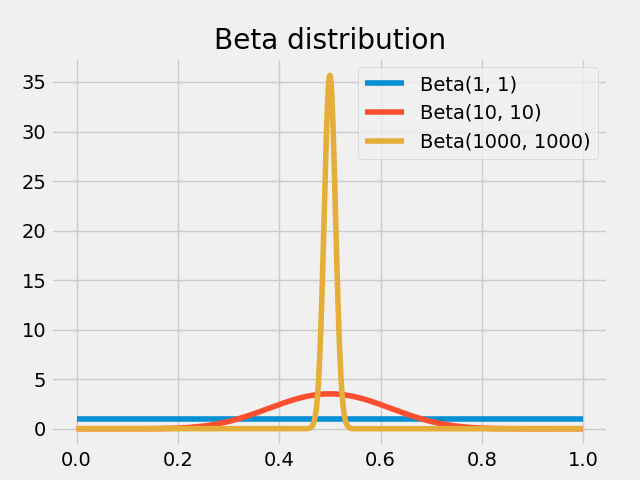
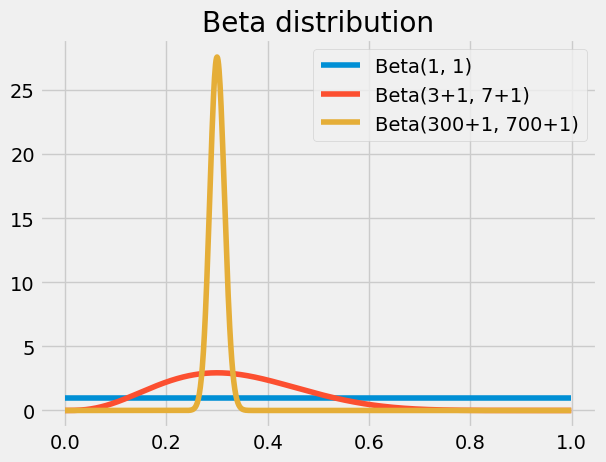
bayesian + storage, WIP

diff --git a/scripts/blog/bayesian-anomaly-detection.py b/scripts/blog/bayesian-anomaly-detection.py
@@ -20,7 +20,7 @@ plt.ylabel("error rate")
 plt.plot(x, err_rate)
 for day in [54, 34, 11, 61]:
     plt.axvline(day, alpha=0.1)
-plt.savefig("static/blog/bayesian-anomaly-detection/error-rate-timeseries.png")
+plt.savefig("static/blog/bayesian-anomaly-detection/error-rate-timeseries.png", bbox_inches='tight')
 
 
 for day in [54, 34, 11, 61]:
@@ -44,7 +44,7 @@ for day in [54, 34, 11, 61]:
         )
     )
     plt.legend()
-    plt.savefig(f"static/blog/bayesian-anomaly-detection/distributions-day{day}.png")
+    plt.savefig(f"static/blog/bayesian-anomaly-detection/distributions-day{day}.png", bbox_inches='tight')
 
 
 # Beta distribution
@@ -52,7 +52,7 @@ xrange = np.arange(0, 1., 0.001)
 plt.figure()
 plt.title("Beta distribution")
 plt.plot(xrange, beta.pdf(xrange, 1, 1), label="Beta(1, 1)")
-plt.plot(xrange, beta.pdf(xrange, 10, 10), label="Beta(10, 10)")
-plt.plot(xrange, beta.pdf(xrange, 1000, 1000), label="Beta(1000, 1000)")
+plt.plot(xrange, beta.pdf(xrange, 3+1, 7+1), label="Beta(3+1, 7+1)")
+plt.plot(xrange, beta.pdf(xrange, 300+1, 700+1), label="Beta(300+1, 700+1)")
 plt.legend()
-plt.savefig("static/blog/bayesian-anomaly-detection/beta-distribution.png")
+plt.savefig("static/blog/bayesian-anomaly-detection/beta-distribution.png", bbox_inches='tight')

diff --git a/content/blog/bayesian-anomaly-detection.md b/content/blog/bayesian-anomaly-detection.md
@@ -1,13 +1,50 @@
 ---
-title: "Bayesian Anomaly Detection"
+title: "Bayesian Anomaly Detection in Time Series Data"
 date: 2022-08-04T18:56:04+02:00
 draft: true
 ---
 {{< katex >}}
 
+{{< lead >}}
+Find anomalous data in time series using Bayesian statistics.
+{{< /lead >}}
+
+In a recent project, we were asked to detect anomalies in time series data. The special aspect was that the time series data resembled error rates, a quotient of the number of errors and a reference number, here the number of operations that were able to fail at that date. 
+
+![Error Rate Time Series](/blog/bayesian-anomaly-detection/error-rate-timeseries.png)
+
+We wanted to make use not only of the ratio but numbers that form it: Heuristically, you would be more confident about an error rate of 0.1 = 10,000 errors / 100,000 operations compared to the same but 0.1 = 1 error / 10 operations.
+
+In a Bayesian approach, we do not just compare error rates with each other. Instead, we want to derive probability distributions for both, the current date and a comparison interval and compare these.
 
 ## Bayes' theorem
 
+The Bayes' theorem helps us to derive the posterior distribution of the error rate based on our prior belief and the observed data.
+
+Let us consider the success of an operation to be _Bernoulli distributed_. This means an error occurs with a probability of \\(\theta\\). 
+
+Given a number of operations (reference) \\(N_r\\), the absolute number of errors will then follow a _Binomial distribution_:
+\\( P(N_e | N_r, \theta) = \binom{N_r}{N_e} \theta^{N_e} (1-\theta)^{N_r-N_e} \\).
+
+The Bayes' theorem now tells us how to derive the posterior probability, that means the probability distribution of the intrinsic error rate given our previous belief/knowledge and our observation of successful and failing operations:
+
+{{< alert " " >}}
 $$ P(\theta | N_e, N_r) \propto P(N_e | N_r, \theta) \times P(\theta) $$
+{{< /alert >}}
+
+But what is our prior probability? In doubt, we use an uninformed prior that gives equal weight to all values of \\(\theta\\) between 0 and 1 which can be modeled with a Beta function Beta(1, 1).
+
+The great thing in this setup is that the Beta distribution is the _conjugate prior_ of the Binomial distribution. What this means is that given a Binomial likelihood and a Beta prior, the posterior is again a Beta distribution. Moreover, we get a simple update rule that saves us a lot of computation.
+
+
+## Beta distribution
+
+Let us first have a look at the Beta distribution. The function is defined in the interval between 0 and 1 and parametrized by two positive shape parameters which are usually denoted \\(\alpha\\) and \\(\beta\\). 
+
+If both shape parameters have the value \\(\alpha = \beta = 1\\), the distribution is uniform between 0 and 1, resembling a so-called uninformed prior, meaning, all values between 0 and 1 are considered equally likely.
+
+Using the knowledge from above, we can now use the observed data to calculate the posterior distribution: The simple update rule is: \\(\alpha' = N_e + \alpha \\) and \\(\beta' = (N_r - N_e) +\beta \\). Heuristically, this means the parameters \\(\alpha\\) and \\(\beta\\) denote the number of positive (here errors) and negative (here reference minus errors) outcomes of the experiment (plus 1 for our uninformed prior).
+
+In the plot we can see that the distribution peaks around the expected error rate (errors / reference operations) and also that the peak is much narrower when we have more data.
 
 ![Beta Distribution](/blog/bayesian-anomaly-detection/beta-distribution.png)

diff --git a/content/blog/backup-azure-storage.md b/content/blog/backup-azure-storage.md
@@ -1,0 +1,16 @@
+---
+title: "Backup Azure Storage Accounts"
+date: 2022-08-02T19:04:32+02:00
+draft: true
+---
+
+While regular backups of data came a bit out of fashion in the modern cloud world, there might be situations where you have to generate a copy of your data from a storage account. In my case, the customer required me to enable infrastructure-encryption of storage accounts which forces a resource recreation. So the question was how to backup the data before and then migrate it back to the new resources.
+
+The solution is a bit hacky but works quite well: Create a temporary backup storage account, copy your data there, recreate the actual storage account, and then copy the data back. Here, I will explain how to do that using azcopy.
+
+1. Create a backup account. While the rest of my setup is handled with terraform as infrastructure as Code (IaC), I did this manually in the Azure UI, as it is just temporary. It makes sense to choose the same settings as for the storage account that you want to backup.
+
+2. Download azcopy (https://docs.microsoft.com/en-us/azure/storage/common/storage-use-azcopy-v10) and unpack it.
+
+3. Login to your Azure account in the command line. You can do that with `./azcopy login` which will lead you to a so-called device-login (meaning you should open a link in the browser, enter a alphanumeric code and then proceed with the normal Azure login). You might also need to choose the correct subscription in case you have several: `az account set --subscription <subscription_id>`.
+

diff --git a/content/_index.md b/content/_index.md
@@ -2,7 +2,7 @@
 title: "Gerold Busch"
 date: 2022-07-26T20:28:57+02:00
 draft: false
-description: "Data Scientist, Astrophysicist, Problem Solver"
+description: "Data Scientist"
 ---
 
 Welcome to my homepage. 
